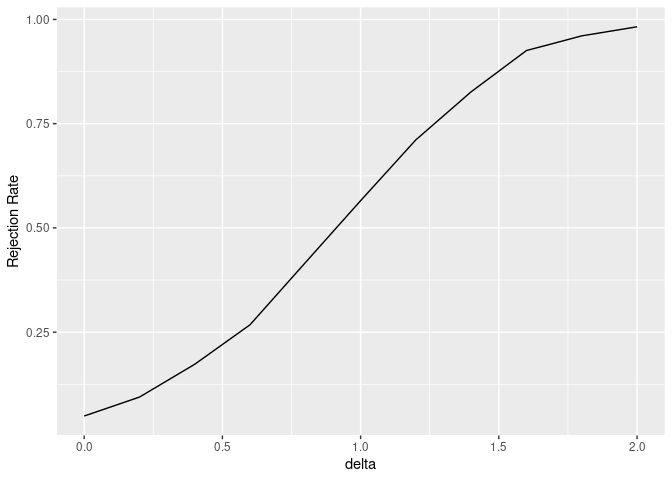
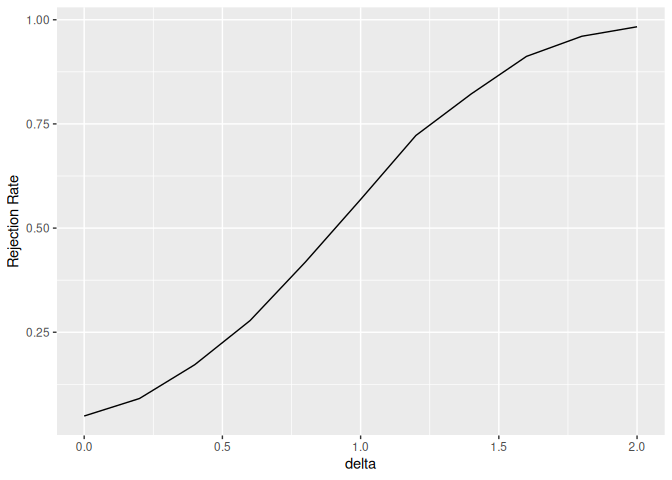
Re-built README

diff --git a/README.md b/README.md
@@ -4,7 +4,9 @@
 # `cmstatrExt` <img src="man/figures/logo.png" align="right" alt="" width="120" />
 
 <!-- badges: start -->
-[![CRAN status](https://www.r-pkg.org/badges/version/cmstatrExt)](https://CRAN.R-project.org/package=cmstatrExt)
+
+[![CRAN
+status](https://www.r-pkg.org/badges/version/cmstatrExt)](https://CRAN.R-project.org/package=cmstatrExt)
 [![R-CMD-check](https://github.com/cmstatr/cmstatrExt/actions/workflows/R-CMD-check.yaml/badge.svg)](https://github.com/cmstatr/cmstatrExt/actions/workflows/R-CMD-check.yaml)
 [![](https://cranlogs.r-pkg.org/badges/cmstatrExt)](https://cran.r-project.org/package=cmstatrExt)
 <!-- badges: end -->
@@ -40,7 +42,7 @@ k <- k_equiv_two_sample(
   m = 6    # size of the acceptance sample
 )
 k
-#> [1] 2.9594727 0.9541395
+#> [1] 2.9594440 0.9541253
 ```
 
 The power of this test for detecting reduction in mean can be computed
